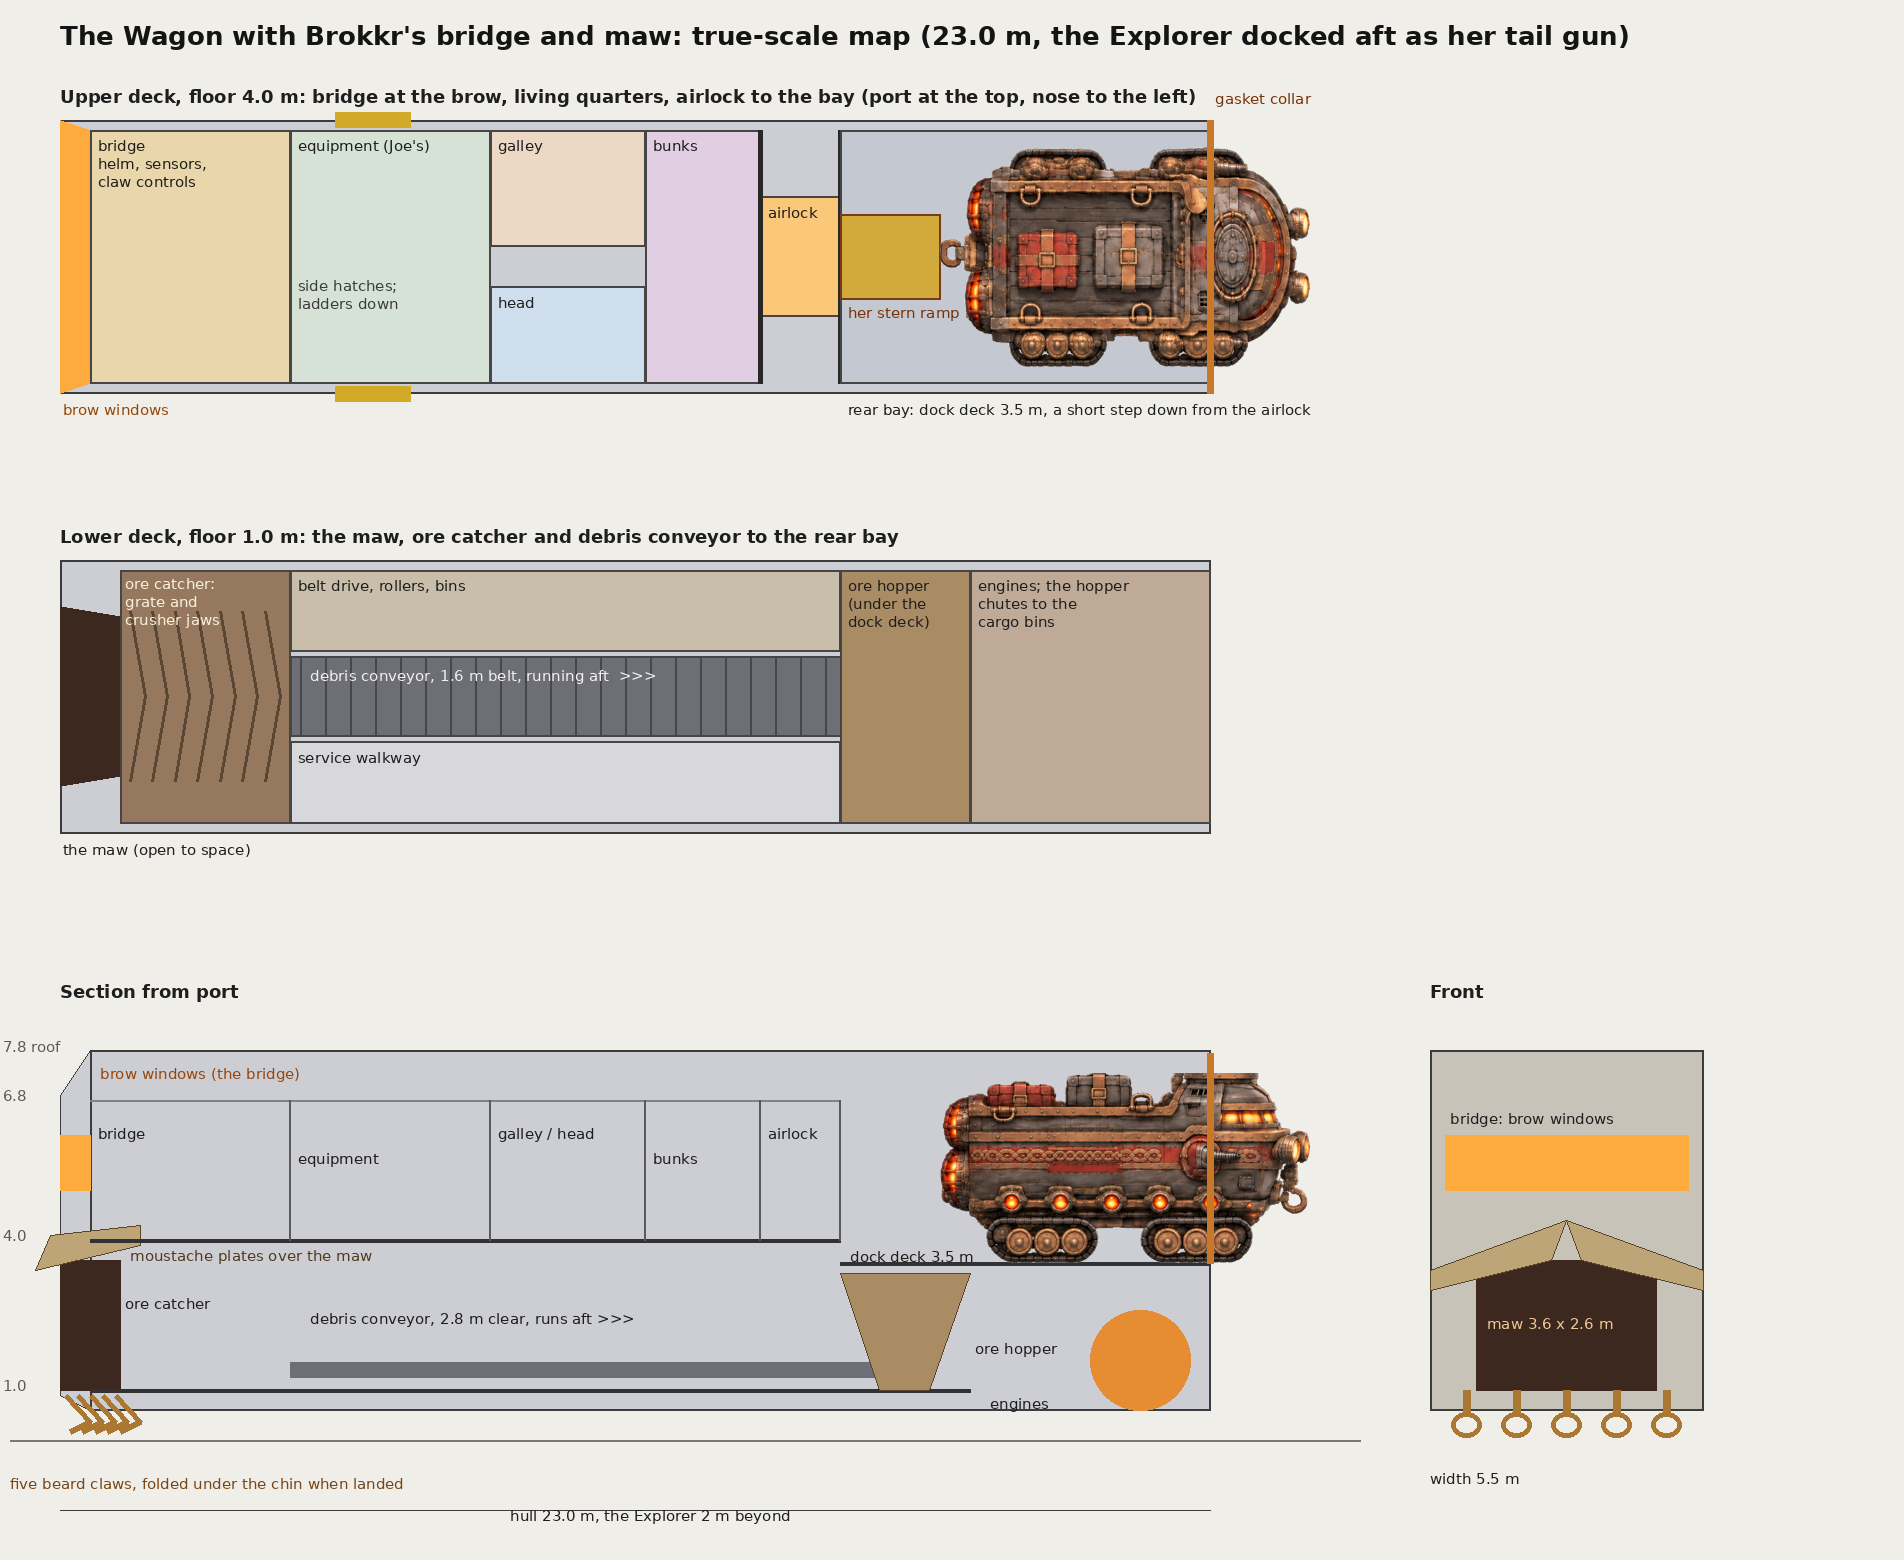
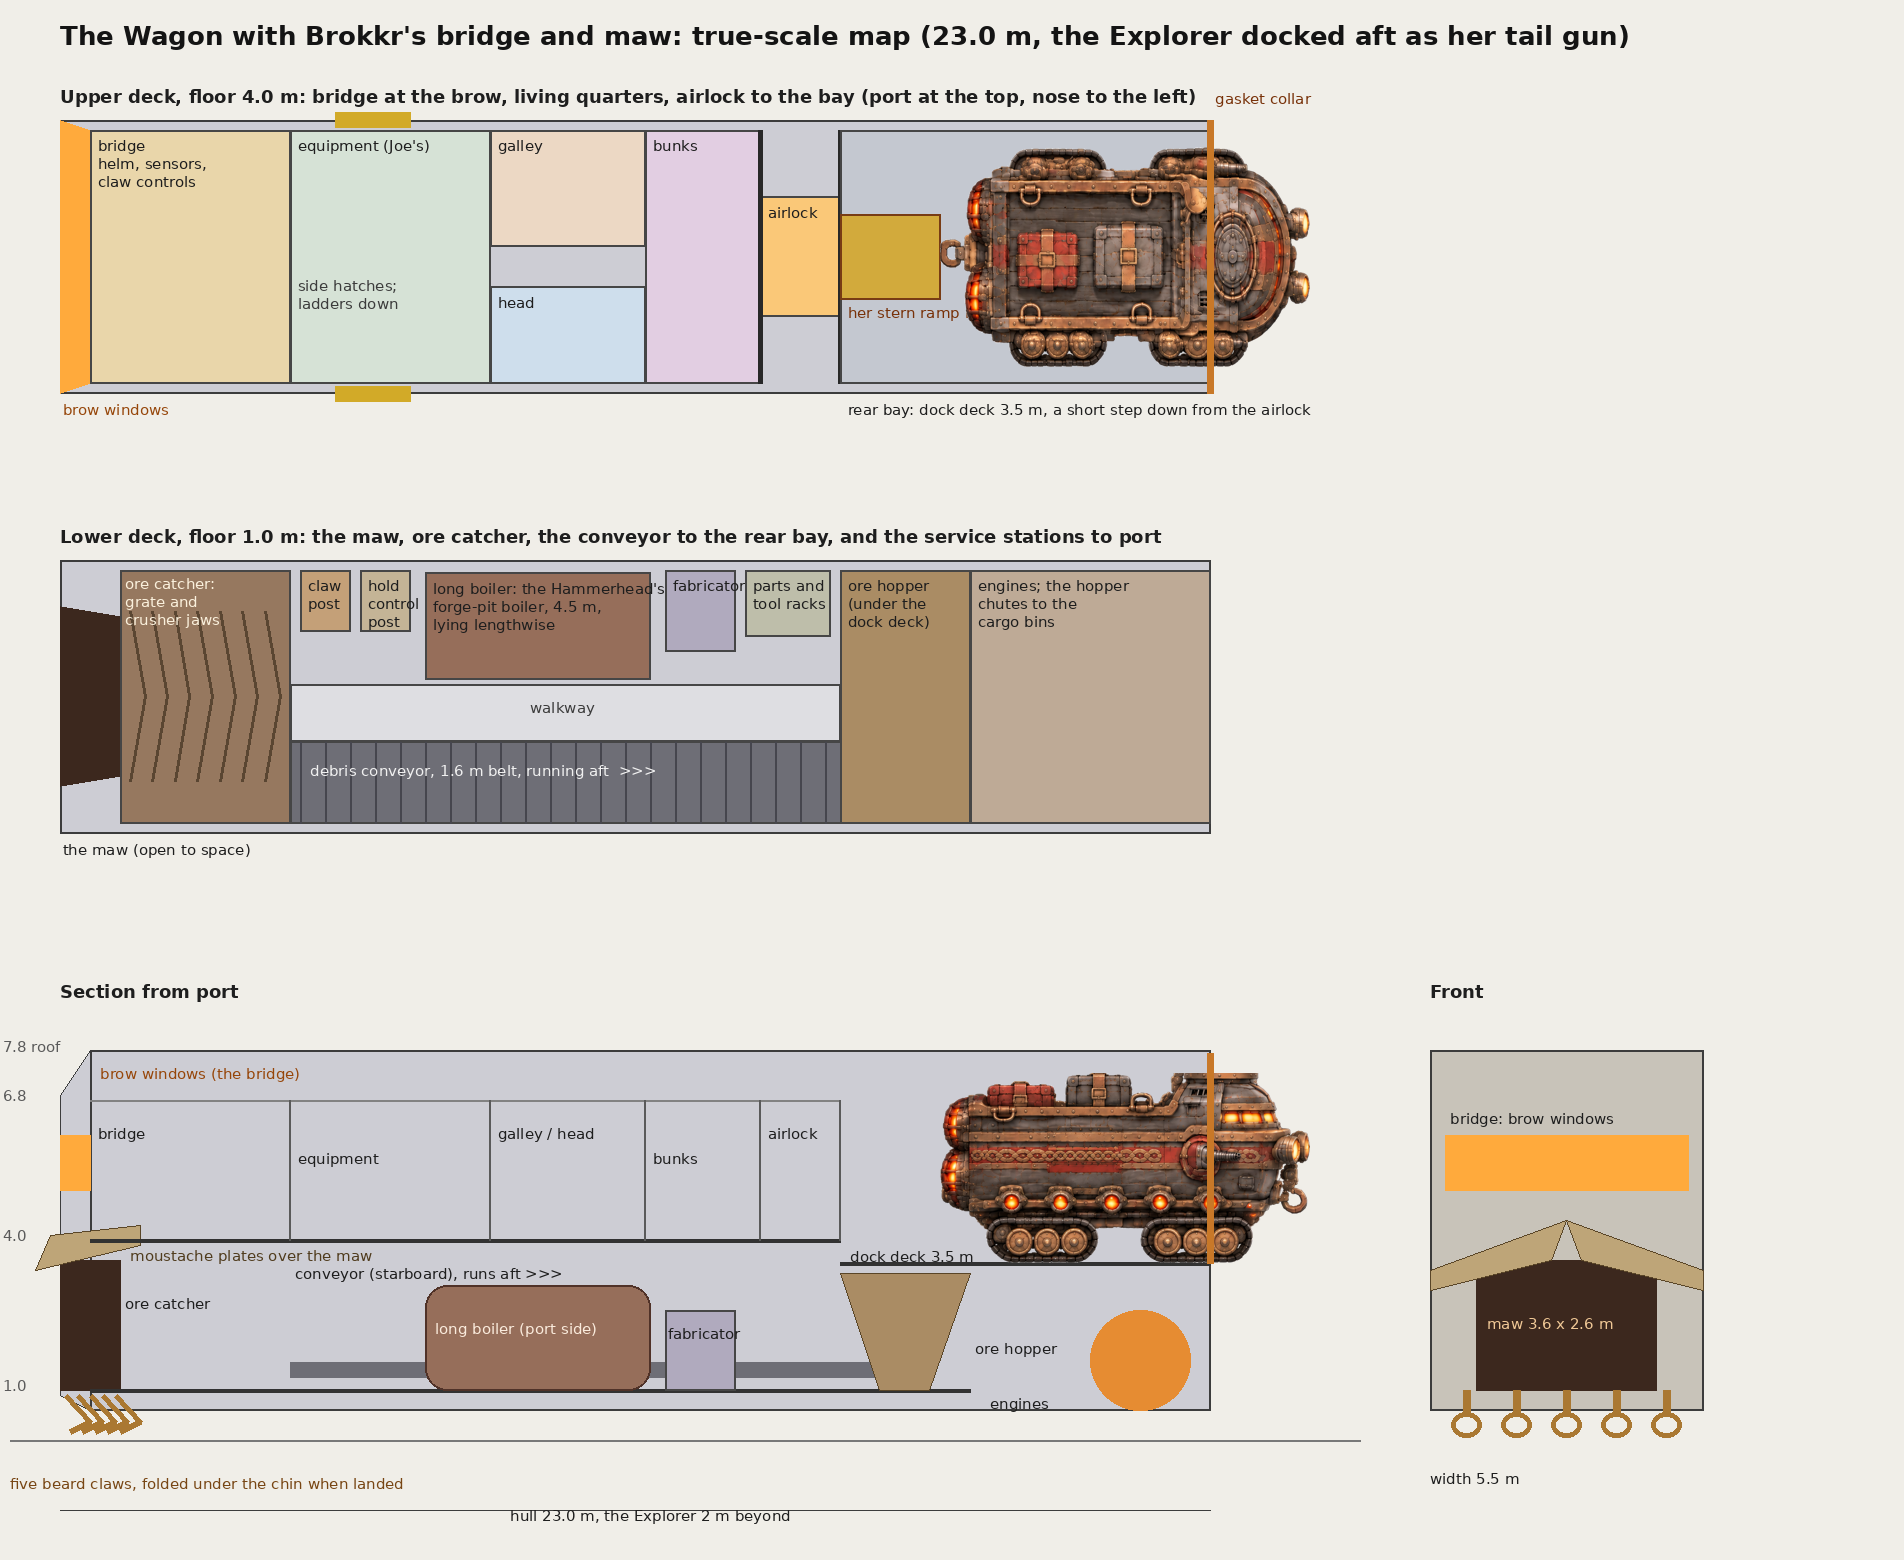
Wagon maw: service stations to port on the lower deck; paint-over guide
Claude-Session: https://claude.ai/code/session_018uw49qxrYcPbfx6dYbzuS6

Changed region(s): [[0.1549, 0.3385, 0.6197, 0.5538], [0.2169, 0.8, 0.4028, 0.8923]]

diff --git a/views/wagon_maw/make_map_maw_wagon.py b/views/wagon_maw/make_map_maw_wagon.py
@@ -49,15 +49,20 @@ top=ImageOps.mirror(cut(ex.crop((0,int(Hd*0.5),int(Wd*0.45),Hd)))).resize((round
 out.paste(top,(round(P(EZ0,0)[0]),round(P(0,-EX_W/2)[1])),top)
 g.line([P(L,-XO),P(L,XO)],fill=(200,120,40),width=7); g.text(P(L+0.1,-XO-0.6),'gasket collar',fill=(120,50,10),font=FS)
 # ---- lower deck
-P=plan(560,'Lower deck, floor 1.0 m: the maw, ore catcher and debris conveyor to the rear bay')
+P=plan(560,'Lower deck, floor 1.0 m: the maw, ore catcher, the conveyor to the rear bay, and the service stations to port')
 g.polygon([P(0,-1.8),P(0,1.8),P(1.2,1.6),P(1.2,-1.6)],fill=(60,40,30)); g.text(P(0.05,XO+0.15),'the maw (open to space)',fill=(30,30,30),font=FS)
 box(P,1.2,4.6,-XI,XI,(150,120,95))
 for k in range(7): z=1.4+k*0.45; g.line([P(z,-1.7),P(z+0.3,0),P(z,1.7)],fill=(90,70,50),width=3)
 g.text(P(1.3,-XI+0.1),'ore catcher:\ngrate and\ncrusher jaws',fill=(250,240,220),font=FS)
-box(P,4.6,R['lock'][1]+2.0,-0.8,0.8,(110,110,118))
-for z in np.arange(4.8,R['lock'][1]+2.0,0.5): g.line([P(z,-0.8),P(z,0.8)],fill=(70,70,78),width=2)
-g.text(P(5.0,-0.6),'debris conveyor, 1.6 m belt, running aft  >>>',fill=(240,240,240),font=FS)
-box(P,4.6,R['lock'][1],0.9,XI,(215,215,220),'service walkway'); box(P,4.6,R['lock'][1],-XI,-0.9,(200,190,170),'belt drive, rollers, bins')
+# conveyor along the starboard wall, walkway down the middle, the service stations to port (Aaron, 15:04)
+box(P,4.6,R['lock'][1]+2.0,0.9,XI,(110,110,118))
+for z in np.arange(4.8,R['lock'][1]+2.0,0.5): g.line([P(z,0.9),P(z,XI)],fill=(70,70,78),width=2)
+g.text(P(5.0,1.3),'debris conveyor, 1.6 m belt, running aft  >>>',fill=(240,240,240),font=FS)
+box(P,4.6,R['lock'][1],-0.25,0.9,(222,222,226)); g.text(P(9.4,0.05),'walkway',fill=(60,60,60),font=FS)
+ST=[(4.8,5.8,-XI,-1.3,(196,160,120),'claw\npost'),(6.0,7.0,-XI,-1.3,(196,180,150),'hold\ncontrol\npost'),
+    (7.3,11.8,-XI+0.05,-0.35,(150,110,90),'long boiler: the Hammerhead\'s\nforge-pit boiler, 4.5 m,\nlying lengthwise'),
+    (12.1,13.5,-XI,-0.9,(176,170,190),'fabricator'),(13.7,15.4,-XI,-1.2,(190,190,170),'parts and\ntool racks')]
+for z0,z1,x0,x1,c,t in ST: box(P,z0,z1,x0,x1,c,t)
 box(P,R['lock'][1],R['lock'][1]+2.6,-XI,XI,(170,140,100),'ore hopper\n(under the\ndock deck)')
 box(P,R['lock'][1]+2.6,L,-XI,XI,(190,170,150),'engines; the hopper\nchutes to the\ncargo bins')
 # ---- section from port
@@ -76,7 +81,9 @@ for k,(n,(a,b)) in enumerate(R.items()):
     g.line([S(b,UP),S(b,CEIL)],fill=(90,90,90),width=2)
     g.text(S(a+0.15,UP+2.3-(k%2)*0.5),{'bridge':'bridge','equip':'equipment','galhead':'galley / head','bunks':'bunks','lock':'airlock'}[n],fill=(30,30,30),font=FS)
 g.text(S(1.3,2.9),'ore catcher',fill=(30,30,30),font=FS)
-g.rectangle([S(4.6,1.25),S(R['lock'][1]+1.2,1.55)],fill=(110,110,118)); g.text(S(5.0,2.6),'debris conveyor, 2.8 m clear, runs aft >>>',fill=(30,30,30),font=FS)
+g.rectangle([S(4.6,1.25),S(R['lock'][1]+1.2,1.55)],fill=(110,110,118)); g.text(S(4.7,3.5),'conveyor (starboard), runs aft >>>',fill=(30,30,30),font=FS)
+g.rounded_rectangle([S(7.3,3.1),S(11.8,1.0)],radius=22,fill=(150,110,90),outline=(80,50,40),width=2); g.text(S(7.5,2.4),'long boiler (port side)',fill=(250,235,220),font=FS)
+g.rectangle([S(12.1,2.6),S(13.5,1.0)],fill=(176,170,190),outline=(70,70,70),width=2); g.text(S(12.15,2.3),'fabricator',fill=(30,30,30),font=FS)
 g.polygon([S(R['lock'][1],DOCK-0.2),S(R['lock'][1]+2.6,DOCK-0.2),S(R['lock'][1]+1.8,1.0),S(R['lock'][1]+0.8,1.0)],fill=(170,140,100),outline=(90,70,40))
 g.text(S(R['lock'][1]+2.7,2.0),'ore hopper',fill=(30,30,30),font=FS)
 g.line([S(R['lock'][1],DOCK),S(L,DOCK)],fill=(50,50,50),width=4); g.text(S(R['lock'][1]+0.2,DOCK+0.3),'dock deck 3.5 m',fill=(30,30,30),font=FS)

diff --git a/views/wagon_maw/_render_guide_b_base.py b/views/wagon_maw/_render_guide_b_base.py
@@ -1,0 +1,42 @@
+"""Exact-scale guide for the Wagon (1.18x, 23.0 m, dock trimmed to hull width) with the Mine Cart Explorer docked as her tail gun, nose 2 m out.
+Port side (nose left) and stern view. Sources: Joe's Wagon views (uploads wagon_port_side, wagon_back), the Explorer stern-ramp sheet."""
+import numpy as np
+from PIL import Image, ImageDraw
+K=1.18
+def cut(im,thr=36):
+    a=np.asarray(im.convert('RGB')).astype(int); bg=a[3,3]; m=np.abs(a-bg).sum(2)>thr; ys,xs=np.where(m)
+    im=im.crop((xs.min(),ys.min(),xs.max()+1,ys.max()+1)).convert('RGBA'); m=m[ys.min():ys.max()+1,xs.min():xs.max()+1]
+    im.putalpha(Image.fromarray((m*255).astype(np.uint8))); return im
+ws=cut(Image.open('/tmp/mc/wagon_port_side.png')); wb=cut(Image.open('/tmp/mc/wagon_back.png'))
+ex=Image.open('/tmp/rmp/explorer_ramp.png').convert('RGB'); W,H=ex.size
+ex_side=cut(ex.crop((int(W*0.62),0,W,int(H*0.5))))          # her starboard, bow right
+ex_front=cut(ex.crop((int(W*0.4),0,int(W*0.62),int(H*0.5))))
+BG=(200,200,200); out=Image.new('RGB',(2304,1296),BG)
+# ---- port side: Joe's Wagon is 19 m nose to engine; scaled 1.18 -> 22.4 m; the body forward of the bay = nose -9.6 .. +3.6 m
+PPM=58
+ws_len=19.0*K; s=ws_len*PPM/ws.width; ws2=ws.resize((round(ws.width*s),round(ws.height*s)),Image.LANCZOS)
+fwd_m=(3.6+9.6)*K; fwd_px=round(fwd_m*PPM)
+x0,ground=90,980
+front=ws2.crop((0,0,fwd_px,ws2.height)); aft=ws2.crop((fwd_px,0,ws2.width,ws2.height))
+out.paste(front,(x0,ground-ws2.height),front)
+# the dock module: the old bay and engine stretched to 7.4 m of hull (23.0 m overall)
+dock_m=23.0-fwd_m; aft2=aft.resize((round(aft.width*(dock_m*PPM)/(aft.width*0.80)),aft.height),Image.LANCZOS)  # box is ~80% of the aft crop, engine juts past
+out.paste(aft2,(x0+fwd_px,ground-ws2.height),aft2)
+stern_x=x0+round(23.0*PPM)
+# the Explorer: 7.4 m long, her bow 2 m past the stern, on the dock deck 3.0*K above the ground
+es=EXL=7.4*PPM/ex_side.width; e2=ex_side.resize((round(ex_side.width*es),round(ex_side.height*es)),Image.LANCZOS)
+deck_y=ground-round(3.0*K*PPM)
+top=max(0,e2.height-round(3.8*PPM)); nose=e2.crop((e2.width-round(2.0*PPM),top,e2.width,e2.height))
+out.paste(nose,(stern_x,deck_y-nose.height),nose)
+g=ImageDraw.Draw(out)
+g.rectangle([stern_x-10,deck_y-round(4.2*PPM),stern_x+6,deck_y+6],fill=(190,110,40),outline=(90,50,20),width=3)  # gasket collar
+# ---- stern view: 7.1 m wide x 6.6 m tall scaled
+bx0,bground=1660,980; bp=(6.6*K*PPM)/wb.height
+wb2=wb.resize((round(wb.width*bp),round(wb.height*bp)),Image.LANCZOS); out.paste(wb2,(bx0,bground-wb2.height),wb2)
+ppm_b=wb2.height/(6.6*K)
+fe=4.4*ppm_b/ex_front.width; f2=ex_front.resize((round(ex_front.width*fe),round(ex_front.height*fe)),Image.LANCZOS); f2=f2.crop((0,max(0,f2.height-round(3.8*ppm_b)),f2.width,f2.height))
+cx=bx0+wb2.width//2; bdeck=bground-round(3.0*K*ppm_b)
+g.rounded_rectangle([cx-f2.width//2-22,bdeck-f2.height-22,cx+f2.width//2+22,bdeck+14],radius=40,fill=(190,110,40),outline=(90,50,20),width=4)
+g.rounded_rectangle([cx-f2.width//2-6,bdeck-f2.height-6,cx+f2.width//2+6,bdeck+2],radius=30,fill=(40,36,34))
+out.paste(f2,(cx-f2.width//2,bdeck-f2.height),f2)
+out.save('/tmp/rg/guide.png'); print(stern_x, out.size)

diff --git a/views/wagon_maw/make_render_guide_maw.py b/views/wagon_maw/make_render_guide_maw.py
@@ -1,0 +1,33 @@
+"""Paint-over guide, true scale: the 23.0 m Wagon (map wagon_maw) in flight, port side and front.
+Head: Brokkr's Rest 2K left and front views (approved round 156), horns and guns left off, fitted to the Wagon's 5.5 x 7.8 m nose.
+Body and dock: as render_guide_b (Joe's Wagon views at 1.18x, the Explorer's nose 2 m out of the stern)."""
+import numpy as np
+from PIL import Image, ImageDraw
+exec(open('/tmp/rg/guide.py').read().split("# ---- stern view")[0])        # side view of map B: out, g, PPM, x0, ground, stern_x
+K=1.18; R='/home/claude/driftwright-refs/views/brokkrs_rest_2k/'
+def keyout(im,thr=40,bg=None):
+    a=np.asarray(im.convert('RGB')).astype(int); bg=a[3,3] if bg is None else np.array(bg); m=np.abs(a-bg).sum(2)>thr
+    r=im.convert('RGBA'); r.putalpha(Image.fromarray((m*255).astype(np.uint8))); return r
+# side: her head from the left view (2304 wide): brow to the claw tips, the horn and its gun cut off above the brow
+L=Image.open(R+'left.png'); s=L.width/1200
+head=keyout(L.crop((int(38*s),int(178*s),int(285*s),int(615*s))))
+bgc=L.convert('RGB').getpixel((5,5)); head=keyout(L.crop((int(38*s),int(178*s),int(285*s),int(615*s))),bg=bgc)
+brow=int((268-178)*s)                                                          # the glowing brow band; above it the horn, cut off
+top=Image.new('RGBA',(head.width,brow),(138,128,114,255)); tg=ImageDraw.Draw(top)
+for yy in range(0,brow,max(8,brow//4)): tg.line([(0,yy),(head.width,yy)],fill=(176,128,64),width=4)
+for xx in range(0,head.width,max(10,head.width//6)): tg.line([(xx,0),(xx,brow)],fill=(110,100,90),width=2); hd=head.copy(); hd.paste(top,(0,0)); head=hd
+body_h=7.2; hp=body_h*PPM/(head.height*(470-178)/(615-178))                    # brow to maw floor = 7.2 m (0.6 m to the roof's 7.8)
+head=head.resize((round(head.width*hp),round(head.height*hp)),Image.LANCZOS)
+hull_top=ground-round(6.6*K*PPM)
+# clear Joe's cab, then set the head on the nose
+g.rectangle([x0-40,hull_top-60,x0+round(4.6*PPM),ground+10],fill=(200,200,200))
+out.paste(head,(x0-round(0.6*PPM),hull_top),head)
+out=out.crop((0,0,stern_x+round(2.6*PPM),out.height))
+# front: Brokkr's front, horns off, fitted to 5.5 m wide x 7.2 m brow-to-maw, claws below
+F=Image.open(R+'front.png'); f=F.width/1200
+fr=keyout(F.crop((int(225*f),int(205*f),int(975*f),int(1110*f))),bg=F.convert('RGB').getpixel((5,5)))
+fw=round(5.5*PPM); fh=round(fr.height*fw/fr.width*1.25)                        # stretched taller to the Wagon's head
+fr=fr.resize((fw,fh),Image.LANCZOS)
+c=Image.new('RGB',(out.width+fw+260,out.height),(200,200,200)); c.paste(out,(0,0))
+c.paste(fr,(out.width+130,hull_top),fr)
+c.save('/tmp/mw/guide_maw.png'); print(c.size)

diff --git a/views/wagon_maw/README.md b/views/wagon_maw/README.md
@@ -9,3 +9,8 @@ Source art: Brokkr's Rest 2K views (`views/brokkrs_rest_2k/`, approved round 156
 - Lower deck (floor 1.0 m): the maw (3.6 x 2.6 m), the ore catcher (grate and crusher jaws), a 1.6 m debris conveyor with a service walkway running aft to an ore hopper under the dock deck; engines aft.
 - Upper deck (floor 4.0 m): the bridge behind the brow windows, then Joe's rooms in his order (equipment with the side hatches, galley and head, bunks), then an airlock into the rear bay. The dock deck is at 3.5 m, a short step down.
 - Five beard claws under the chin, folded when landed, pulled into the maw to feed the catcher.
+
+Aaron (15:04): "I'm amenable to the design. it's loosely what I asked for. / instead of the belt, drive, rollers, bins, etc on the side, put a fabricator, long boiler (like in hammerhead), and other service-level stations that don't belong in the bridge. / Then begin designing"
+
+- Map updated: the conveyor runs along the starboard wall, the walkway down the middle; to port the claw post and hold control post (facing the catcher; FV `brokkr_maw/fv_brokkr_claw_post`, `fv_hold_control_post`), the long boiler (the Hammerhead's forge-pit boiler, `fv_boiler_forge_pit`, 4.5 m lying lengthwise), the fabricator (`fv_fabricator`), parts and tool racks.
+- `render_guide_maw.png` (from `make_render_guide_maw.py`, which reads `_render_guide_b_base.py`): true-scale paint-over guide, port side and front, the Brokkr head cut from her 2K left and front views, horns and guns left off.
